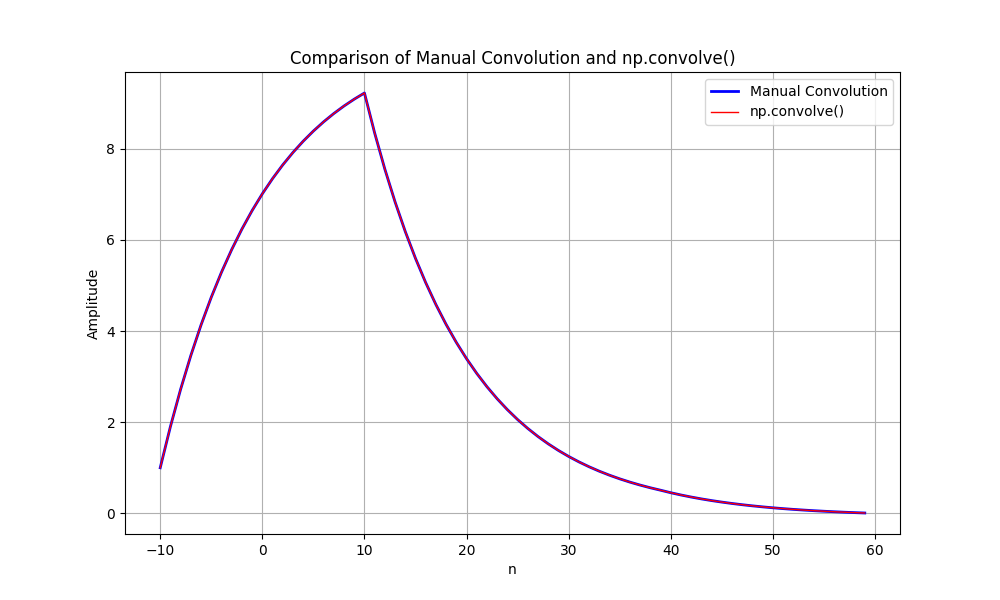
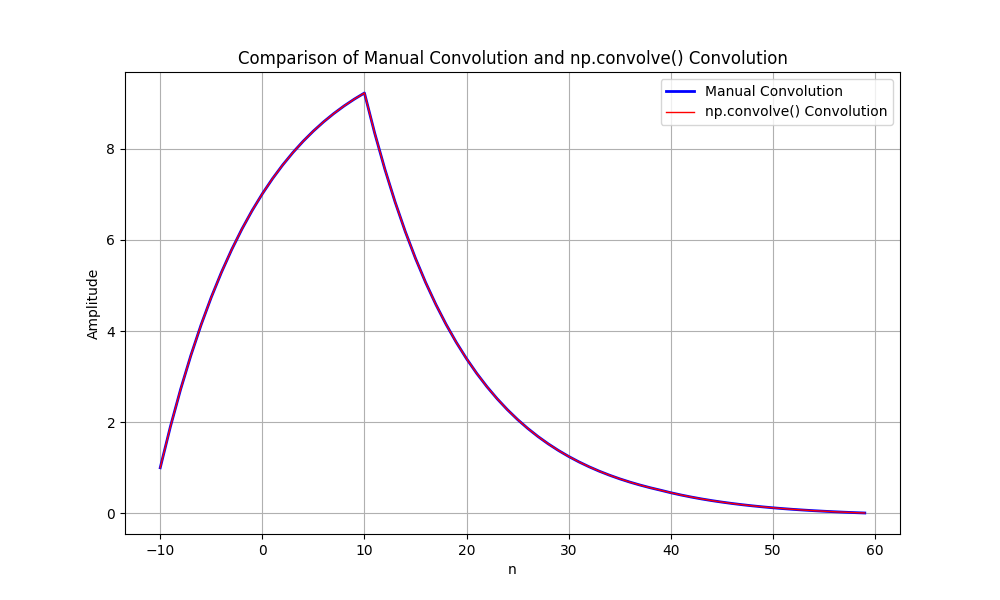
deplag Q1

Changed region(s): [[0.248, 0.09, 0.899, 0.21]]

diff --git a/2024/A3/1.py b/2024/A3/1.py
@@ -1,40 +1,30 @@
 import numpy as np
 import matplotlib.pyplot as plt
 
-# Step 1: Define the rectangular pulse x[n] and the exponential decay h[n]
+n_x = np.arange(-10, 11)
+n_h = np.arange(0, 50)
 
-# Range of n for x[n] and h[n]
-n_x = np.arange(-10, 11)  # x[n] from -10 to 10
-n_h = np.arange(0, 50)    # h[n] for n >= 0
-
-# Define x[n] (rectangular pulse)
 x = np.ones_like(n_x)
-
-# Define h[n] (exponentially decaying signal)
 h = np.exp(-0.1 * n_h)
 
-# Step 2: Perform manual convolution
-# To perform convolution, we pad x and h appropriately
 y_manual = np.zeros(len(n_x) + len(n_h) - 1)
 
 for i in range(len(y_manual)):
-    for k in range(len(n_x)):
-        if 0 <= i - k < len(h):  # Ensure valid index for h[n-k]
-            y_manual[i] += x[k] * h[i - k]
+    for j in range(len(n_x)):
+        if 0 <= i - j < len(h):
+            y_manual[i] += x[j] * h[i - j]
 
-# Step 3: Compare with np.convolve()
 y_np_convolve = np.convolve(x, h)
 
-# Step 4: Plot both results for comparison
-n_y_manual = np.arange(-10, len(y_manual) - 10)  # n range for manual convolution
-n_y_np = np.arange(-10, len(y_np_convolve) - 10) # n range for np.convolve
+n_y_manual = np.arange(-10, len(y_manual) - 10)
+n_y_np = np.arange(-10, len(y_np_convolve) - 10)
 
 plt.figure(figsize=(10, 6))
 plt.plot(n_y_manual, y_manual, label='Manual Convolution', color='blue', linewidth=2)
-plt.plot(n_y_np, y_np_convolve, label='np.convolve()', color='red', linewidth=1)
+plt.plot(n_y_np, y_np_convolve, label='np.convolve() Convolution', color='red', linewidth=1)
 plt.xlabel('n')
 plt.ylabel('Amplitude')
-plt.title('Comparison of Manual Convolution and np.convolve()')
+plt.title('Comparison of Manual Convolution and np.convolve() Convolution')
 plt.legend()
 plt.grid(True)
 plt.show()
